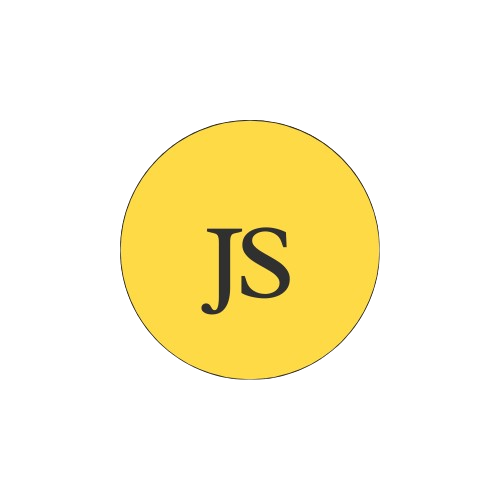
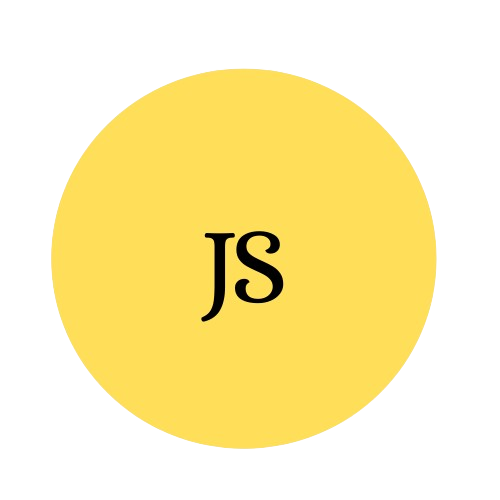
Skill
to complete the skill part

Changed region(s): [[0.09, 0.12, 0.9, 0.9], [0.39, 0.45, 0.6, 0.66]]

diff --git a/src/components/header/skills/skill.css b/src/components/header/skills/skill.css
@@ -4,7 +4,7 @@
     justify-content: center;
 }
 .skill_main_card{
-    border: 1px solid #FAE5D3;
+    border: 2px solid #edf1f5;
     border-radius: 2px 12px 8px 20px;
 }
 .skill__skill_view{
@@ -83,6 +83,7 @@
     width: 210px;
 	height: 230px;
 	background: rgba(255, 255, 255, 0.05);
+	/* background: var(background-color); */
 	margin: 20px;
 	box-shadow: 0 15px 35px rgba(0, 0, 0, 0.5);
 	border-radius: 15px;
@@ -157,11 +158,15 @@
 	opacity: 1;
 }
 .container .card:hover{
-    background-color: black;
+    /* background-color: black; */
+    background-color: #edf1f5;
 }
 .container .card .sci li a {
-	color: #fff;
+	/* color: #fff; */
+	color: #000;
 	font-size: 20px;
+    margin-right: 30px;
+    font-weight: var(--font-medium);
 }
 
 /* ---------------- BREAKPOINTS -------------------- */

diff --git a/src/components/header/skills/Skills.jsx b/src/components/header/skills/Skills.jsx
@@ -5,10 +5,10 @@ import Backend from "./Backend";
 import AboutImg from "../../../assets/rahul.svg";
 import Html from "../../../assets/html.png";
 import Css from "../../../assets/css.png";
-import js from "../../../assets/javascript.png";
+import js from "../../../assets/JavaScript.png";
 import react from "../../../assets/React.png";
 import Node from "../../../assets/nodeJs.png";
-import MySql from "../../../assets/mysql1.png";
+import MySql from "../../../assets/mySql.png";
 const Skills = () => {
   return (
     <section className="skills section" id="skills">
